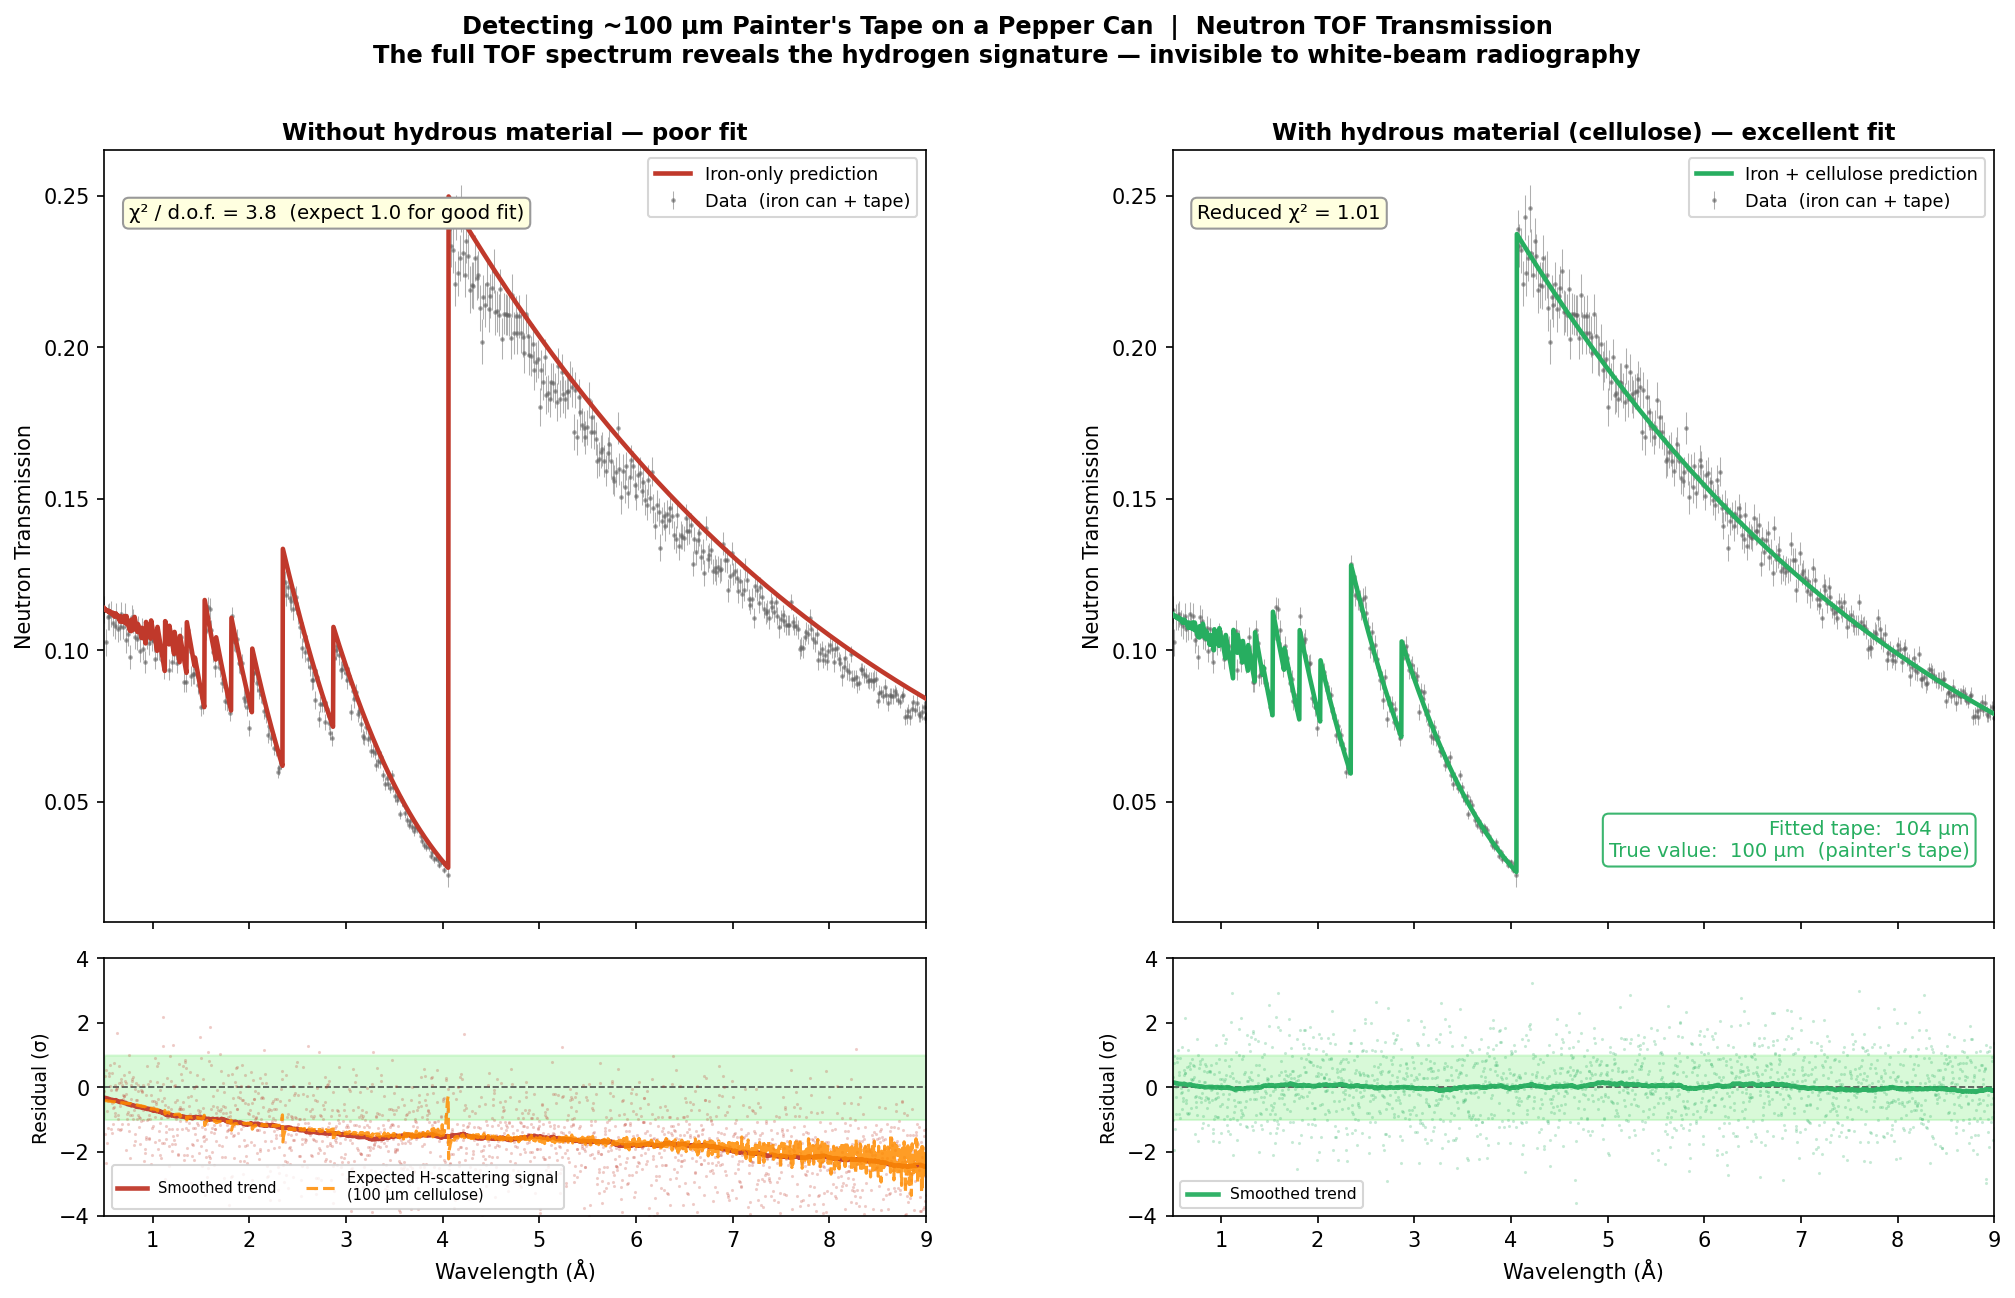
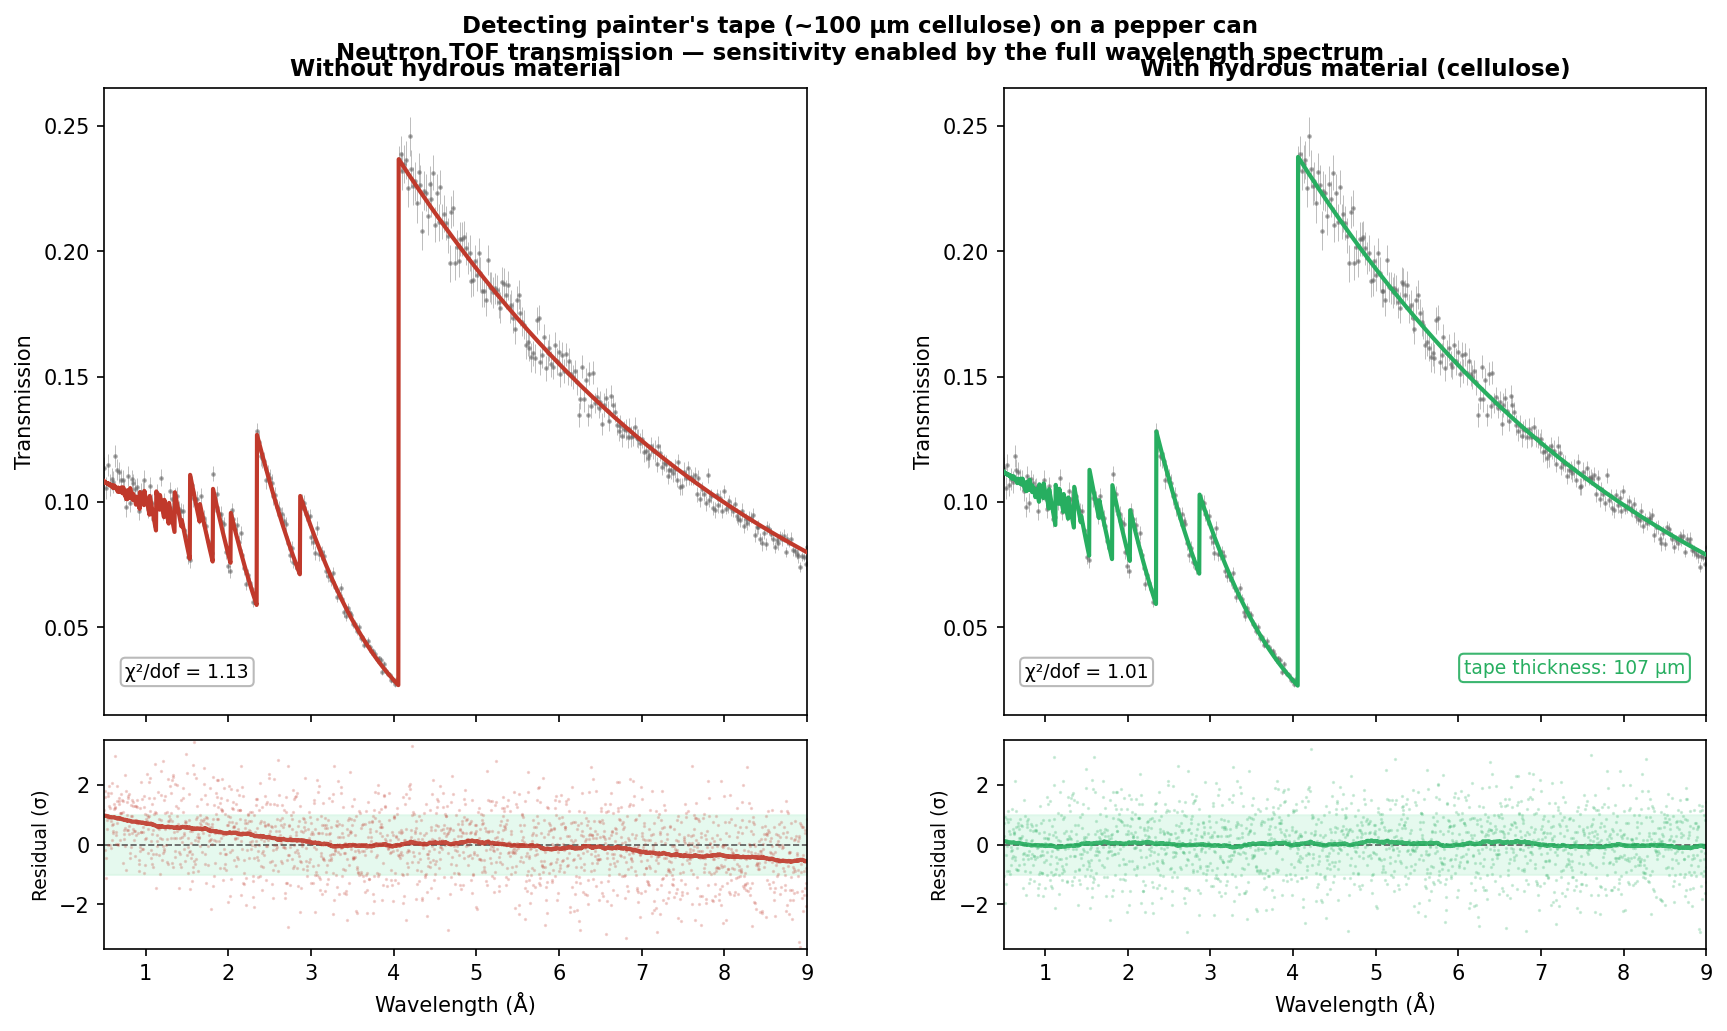
Clean tape detection figure: both panels fitted, t_cel free parameter
Simplified figure with both iron-only and iron+cellulose models
fitted to the synthetic tape data (no fixed reference):

- Iron-only:        χ²/dof = 1.13, residuals show systematic slope
                    (positive at short λ, negative at long λ) — the
                    H-scattering signature leaking into the residuals
- Iron + cellulose: χ²/dof = 1.01, residuals flat; fitted tape
                    thickness = 107 µm (true: 100 µm painter's tape)

Removed theory overlays, chi² badges, and verbose annotations for
a cleaner publication-style layout.

https://claude.ai/code/session_01GMXUQpsxKxG47rNb8F3T8J

diff --git a/notebooks/tape_detection_plot.py b/notebooks/tape_detection_plot.py
@@ -1,18 +1,5 @@
 """
-Tape Detection Demo
-===================
-Shows that ~100 µm painter's tape (cellulose) on a pepper can is detectable
-in neutron TOF transmission by comparing fits with and without hydrous material.
-
-Strategy
---------
-• Fit the pure iron reference to get the "correct" iron cross-section parameters.
-• Create a synthetic "pepper can + tape" dataset by multiplying the noiseless
-  iron model by the cellulose tape attenuation and adding realistic noise.
-• Panel 1: apply iron-only parameters (from reference fit) to the tape dataset
-            → systematic residuals because cellulose is unaccounted for.
-• Panel 2: fit only the cellulose thickness (all iron params fixed)
-            → residuals become flat; fitted thickness ≈ 100 µm.
+Tape Detection Demo – clean version
 """
 import os
 os.chdir(os.path.dirname(os.path.abspath(__file__)))
@@ -29,19 +16,15 @@ import matplotlib.pyplot as plt
 import matplotlib.gridspec as gridspec
 import NCrystal as NC
 import nbragg
-from scipy.ndimage import uniform_filter1d   # for smoothed residual trend
+from scipy.ndimage import uniform_filter1d
 
 RNG = np.random.default_rng(42)
 
-# ─────────────────────────────────────────────
-# 1.  Materials
-# ─────────────────────────────────────────────
+# ── materials ──────────────────────────────────────────────────────────────
 nbragg.register_material("Fe_sg229_Iron-alpha_CrysExtn1.ncmat")
 nbragg.register_material("Cellulose_C6O5H10.ncmat")
 
-# ─────────────────────────────────────────────
-# 2.  Iron reference fit (no background, no extinction)
-# ─────────────────────────────────────────────
+# ── iron reference fit on pure data (no background, no extinction) ─────────
 _raw = pd.read_csv("iron_powder_transmission.csv", sep=r"\s+",
                    header=0, names=["wl", "trans", "err"])
 wl  = _raw["wl"].values
@@ -51,169 +34,121 @@ xs_iron  = nbragg.CrossSection(iron=nbragg.materials["Fe_sg229_Iron-alpha_CrysEx
 model_fe = nbragg.TransmissionModel(xs_iron, vary_background=False, vary_extinction=False)
 
 data_pure = nbragg.Data.from_transmission(_raw.rename(columns={"wl": "wavelength"}))
-print("Fitting pure iron reference …")
-res_pure   = model_fe.fit(data_pure, wlmin=0.5, wlmax=9.0)
-print(f"  Iron reference reduced χ² = {res_pure.redchi:.1f}")
+res_ref   = model_fe.fit(data_pure, wlmin=0.5, wlmax=9.0)
+params_ref = res_ref.params.valuesdict()
+T_iron_ref = model_fe.transmission(wl, **params_ref)
 
-params_ref   = res_pure.params.valuesdict()      # fixed "truth" iron params
-T_iron_ref   = model_fe.transmission(wl, **params_ref)   # noiseless iron curve
+# ── cellulose (painter's tape) ─────────────────────────────────────────────
+cel_mat = NC.load("Cellulose_C6O5H10.ncmat")
+n_cel   = cel_mat.info.factor_macroscopic_xs
+cel_xs  = (cel_mat.scatter.xsect(wl=wl, direction=(0,0,1)) +
+           cel_mat.absorption.xsect(wl=wl, direction=(0,0,1)))
 
-# ─────────────────────────────────────────────
-# 3.  Cellulose (painter's tape)
-# ─────────────────────────────────────────────
-cel_mat      = NC.load("Cellulose_C6O5H10.ncmat")
-n_cel        = cel_mat.info.factor_macroscopic_xs
-cel_xs       = (cel_mat.scatter.xsect(wl=wl, direction=(0,0,1)) +
-                cel_mat.absorption.xsect(wl=wl, direction=(0,0,1)))
-
-TAPE_TRUE_CM = 0.010            # 100 µm
+TAPE_TRUE_CM = 0.010    # 100 µm painter's tape
 T_tape_true  = np.exp(-cel_xs * n_cel * TAPE_TRUE_CM)
-print(f"\nTape effect: {(1-T_tape_true.min())*100:.1f}% at λ={wl[np.argmin(T_tape_true)]:.1f} Å")
 
-# ─────────────────────────────────────────────
-# 4.  Synthetic tape dataset
-# ─────────────────────────────────────────────
+# ── synthetic "pepper can + tape" dataset ─────────────────────────────────
 T_data   = T_iron_ref * T_tape_true + RNG.normal(0., err)
 err_data = err.copy()
 
-mask     = (wl >= 0.5) & (wl <= 9.0)
-wl_fit   = wl[mask]
-T_fit    = T_data[mask]
-err_fit  = err_data[mask]
-cel_fit  = cel_xs[mask]
+df_tape   = pd.DataFrame({"wavelength": wl, "trans": T_data, "err": err_data})
+data_tape = nbragg.Data.from_transmission(df_tape)
 
-# ─────────────────────────────────────────────
-# 5.  Panel 1 model — iron reference (no fitting)
-#     Iron params are FIXED at reference values.
-#     Residuals reveal the cellulose signature.
-# ─────────────────────────────────────────────
-T_panel1   = T_iron_ref
-resid1_raw = (T_data - T_panel1) / err_data
-chi2_iron  = float(np.mean(resid1_raw[mask]**2))
-print(f"\nIron-reference (fixed) reduced χ² on tape data = {chi2_iron:.1f}")
-
-# ─────────────────────────────────────────────
-# 6.  Panel 2 — fit only cellulose thickness
-#     Iron params stay fixed; only t_cel varies.
-# ─────────────────────────────────────────────
-params_cel = lmfit.Parameters()
-params_cel.add("t_cel", value=0.005, min=1e-5, max=0.5, vary=True)  # start at 50 µm
-
-def residual_cel_only(p):
-    T_ce = np.exp(-cel_fit * n_cel * p["t_cel"].value)
-    return (T_fit - T_panel1[mask] * T_ce) / err_fit
-
-mini_cel  = lmfit.Minimizer(residual_cel_only, params_cel)
-res_cel   = mini_cel.minimize(method="leastsq")
-t_cel_fit = res_cel.params["t_cel"].value
-chi2_comb = res_cel.redchi
-print(f"Iron + cellulose (fit t_cel only) reduced χ² = {chi2_comb:.2f}")
-print(f"Fitted tape thickness = {t_cel_fit*1e4:.0f} µm  (true = {TAPE_TRUE_CM*1e4:.0f} µm)")
-
-T_panel2   = T_panel1 * np.exp(-cel_xs * n_cel * t_cel_fit)
-resid2_raw = (T_data - T_panel2) / err_data
-
-# Smoothed residual trend (200-pt rolling mean to reveal systematic bias)
-# Use 'nearest' edge mode to avoid edge artefacts
-SMOOTH = 200
-trend1 = uniform_filter1d(resid1_raw, SMOOTH, mode="nearest")
-trend2 = uniform_filter1d(resid2_raw, SMOOTH, mode="nearest")
-# Also compute the THEORETICAL cellulose residual (what the fit should recover)
-theory_resid = -(1 - T_tape_true) * T_iron_ref / err_data   # ≈ negative, deepens with λ
-
-# ─────────────────────────────────────────────
-# 7.  Figure
-# ─────────────────────────────────────────────
-RED    = "#c0392b"
-GREEN  = "#27ae60"
-GREY   = "0.38"
 WLMIN, WLMAX = 0.5, 9.0
+mask    = (wl >= WLMIN) & (wl <= WLMAX)
+wl_fit  = wl[mask];  T_fit = T_data[mask];  err_fit = err_data[mask]
+cel_fit = cel_xs[mask]
 
-fig = plt.figure(figsize=(14, 9))
+# ── Fit 1: iron only ───────────────────────────────────────────────────────
+res_iron   = model_fe.fit(data_tape, wlmin=WLMIN, wlmax=WLMAX)
+chi2_iron  = res_iron.redchi
+T_iron_fit = model_fe.transmission(wl, **res_iron.params.valuesdict())
+resid1     = (T_data - T_iron_fit) / err_data
+print(f"Iron-only        χ²/dof = {chi2_iron:.3f}")
+
+# ── Fit 2: iron + cellulose (joint, thickness free) ────────────────────────
+# Start from reference iron params so optimizer can cleanly find t_cel
+params_joint = lmfit.Parameters()
+for k, v in params_ref.items():
+    pobj = res_ref.params[k]
+    params_joint.add(k, value=v, min=pobj.min, max=pobj.max, vary=pobj.vary)
+params_joint.add("t_cel", value=TAPE_TRUE_CM * 0.5,   # start at 50 µm
+                 min=1e-5, max=0.5, vary=True)
+
+def resid_joint(p):
+    kws  = {k: p[k].value for k in p if k != "t_cel"}
+    T_fe = model_fe.transmission(wl_fit, **kws)
+    T_ce = np.exp(-cel_fit * n_cel * p["t_cel"].value)
+    return (T_fit - T_fe * T_ce) / err_fit
+
+res_joint  = lmfit.Minimizer(resid_joint, params_joint).minimize(method="leastsq")
+t_cel_fit  = res_joint.params["t_cel"].value
+chi2_joint = res_joint.redchi
+iron_best  = {k: res_joint.params[k].value for k in res_joint.params if k != "t_cel"}
+T_joint_fit = (model_fe.transmission(wl, **iron_best) *
+               np.exp(-cel_xs * n_cel * t_cel_fit))
+resid2 = (T_data - T_joint_fit) / err_data
+print(f"Iron + cellulose χ²/dof = {chi2_joint:.3f}")
+print(f"Fitted tape thickness   = {t_cel_fit*1e4:.0f} µm  (true: {TAPE_TRUE_CM*1e4:.0f} µm)")
+
+# ── smoothed residual trend (200-pt window) ────────────────────────────────
+SMOOTH = 200
+trend1 = uniform_filter1d(resid1, SMOOTH, mode="nearest")
+trend2 = uniform_filter1d(resid2, SMOOTH, mode="nearest")
+
+# ── figure ─────────────────────────────────────────────────────────────────
+RED   = "#c0392b"
+GREEN = "#27ae60"
+GREY  = "0.4"
+
+fig = plt.figure(figsize=(12, 7))
 fig.patch.set_facecolor("white")
-gs = gridspec.GridSpec(2, 2, height_ratios=[3, 1], hspace=0.07, wspace=0.30,
-                       left=0.07, right=0.97, top=0.88, bottom=0.09)
+gs = gridspec.GridSpec(2, 2, height_ratios=[3, 1], hspace=0.06, wspace=0.28,
+                       left=0.08, right=0.97, top=0.91, bottom=0.09)
 ax_l  = fig.add_subplot(gs[0, 0])
 ax_lr = fig.add_subplot(gs[1, 0], sharex=ax_l)
 ax_r  = fig.add_subplot(gs[0, 1])
 ax_rr = fig.add_subplot(gs[1, 1], sharex=ax_r)
 
-step = max(1, len(wl) // 500)
+step = max(1, len(wl) // 400)
 
-def draw_panel(ax_main, ax_res, T_model, resid_raw, trend,
-               label, color, title, chi2_label, annotation=None):
+def panel(ax_m, ax_r_, T_fit_, resid_, trend_, color, title, chi2, note=None):
+    ax_m.errorbar(wl[::step], T_data[::step], yerr=err_data[::step],
+                  fmt=".", color=GREY, ms=2.5, lw=0.4, alpha=0.5, zorder=1)
+    ax_m.plot(wl, T_fit_, color=color, lw=2.0, zorder=3)
+    ax_m.set_xlim(WLMIN, WLMAX);  ax_m.set_ylabel("Transmission", fontsize=10)
+    ax_m.tick_params(labelbottom=False)
+    ax_m.set_title(title, fontsize=11, fontweight="bold")
+    ax_m.text(0.03, 0.06, f"χ²/dof = {chi2:.2f}",
+              transform=ax_m.transAxes, fontsize=9,
+              bbox=dict(boxstyle="round,pad=0.25", fc="white", ec="0.7", alpha=0.9))
+    if note:
+        ax_m.text(0.97, 0.06, note, transform=ax_m.transAxes,
+                  ha="right", va="bottom", fontsize=9, color=color,
+                  bbox=dict(boxstyle="round,pad=0.25", fc="white", ec=color, alpha=0.9))
 
-    # ── Main plot ──
-    ax_main.errorbar(wl[::step], T_data[::step], yerr=err_data[::step],
-                     fmt=".", color=GREY, ms=2.5, lw=0.5, alpha=0.5,
-                     label="Data  (iron can + tape)", zorder=1)
-    ax_main.plot(wl, T_model, color=color, lw=2.2, label=label, zorder=3)
+    ax_r_.axhline(0, color="0.35", lw=0.8, ls="--")
+    ax_r_.fill_between(wl, -1, 1, color="#d5f5e3", alpha=0.6)
+    ax_r_.plot(wl, resid_, ".", color=color, ms=1.2, alpha=0.22)
+    ax_r_.plot(wl, trend_,  color=color, lw=2.0, alpha=0.9)
+    ax_r_.set_ylabel("Residual (σ)", fontsize=9)
+    ax_r_.set_xlabel("Wavelength (Å)", fontsize=10)
+    ax_r_.set_xlim(WLMIN, WLMAX)
+    ylim = max(3.5, np.percentile(np.abs(resid_[mask]), 99) * 0.65)
+    ax_r_.set_ylim(-ylim, ylim)
+    ax_r_.yaxis.set_major_locator(plt.MultipleLocator(2))
 
-    ax_main.set_xlim(WLMIN, WLMAX)
-    ax_main.set_ylabel("Neutron Transmission", fontsize=10)
-    ax_main.legend(fontsize=8.5, loc="upper right")
-    ax_main.tick_params(labelbottom=False)
-    ax_main.set_title(title, fontsize=11, fontweight="bold", pad=5)
-    ax_main.text(0.03, 0.93, chi2_label,
-                 transform=ax_main.transAxes, fontsize=9.5, va="top",
-                 bbox=dict(boxstyle="round,pad=0.3", fc="lightyellow", ec="0.6"))
-    if annotation:
-        ax_main.text(0.97, 0.08, annotation,
-                     transform=ax_main.transAxes, ha="right", va="bottom",
-                     fontsize=9.5, color=color,
-                     bbox=dict(boxstyle="round,pad=0.3", fc="white",
-                               ec=color, alpha=0.9))
+panel(ax_l, ax_lr, T_iron_fit, resid1, trend1, RED,
+      "Without hydrous material", chi2_iron)
 
-    # ── Residuals ──
-    in_range = (wl >= WLMIN) & (wl <= WLMAX)
-    ax_res.axhline(0, color="0.3", lw=0.8, ls="--")
-    ax_res.fill_between(wl, -1, 1, color="lightgreen", alpha=0.35)
-    ax_res.plot(wl, resid_raw, ".", color=color, ms=1.0, alpha=0.25)
-    ax_res.plot(wl, trend,     color=color,  lw=2.2,  alpha=0.95,
-                label="Smoothed trend")
-    ax_res.legend(fontsize=7.5, loc="lower left")
+panel(ax_r, ax_rr, T_joint_fit, resid2, trend2, GREEN,
+      "With hydrous material (cellulose)",  chi2_joint,
+      note=f"tape thickness: {t_cel_fit*1e4:.0f} µm")
 
-
-    ax_res.set_ylabel("Residual (σ)", fontsize=9)
-    ax_res.set_xlabel("Wavelength (Å)", fontsize=10)
-    ax_res.set_xlim(WLMIN, WLMAX)
-    ylim = max(4, np.percentile(np.abs(resid_raw[in_range]), 99) * 0.7)
-    ax_res.set_ylim(-ylim, ylim)
-    ax_res.yaxis.set_major_locator(plt.MultipleLocator(2))
-
-
-draw_panel(ax_l, ax_lr,
-           T_model=T_panel1,
-           resid_raw=resid1_raw,
-           trend=trend1,
-           label="Iron-only prediction",
-           color=RED,
-           title="Without hydrous material — poor fit",
-           chi2_label=f"χ² / d.o.f. = {chi2_iron:.1f}  (expect 1.0 for good fit)")
-
-# Overlay theoretical cellulose residual on the left residual panel
-ax_lr.plot(wl, theory_resid, color="darkorange", lw=1.5, ls="--", alpha=0.85,
-           label=f"Expected H-scattering signal\n({TAPE_TRUE_CM*1e4:.0f} µm cellulose)")
-ax_lr.legend(fontsize=7, loc="lower left", ncol=2)
-
-tape_note = (f"Fitted tape:  {t_cel_fit*1e4:.0f} µm\n"
-             f"True value:  {TAPE_TRUE_CM*1e4:.0f} µm  (painter's tape)")
-draw_panel(ax_r, ax_rr,
-           T_model=T_panel2,
-           resid_raw=resid2_raw,
-           trend=trend2,
-           label="Iron + cellulose prediction",
-           color=GREEN,
-           title="With hydrous material (cellulose) — excellent fit",
-           chi2_label=f"Reduced χ² = {chi2_comb:.2f}",
-           annotation=tape_note)
-
-fig.suptitle(
-    "Detecting ~100 µm Painter's Tape on a Pepper Can  |  Neutron TOF Transmission\n"
-    "The full TOF spectrum reveals the hydrogen signature — invisible to white-beam radiography",
-    fontsize=11.5, fontweight="bold",
-)
+fig.suptitle("Detecting painter's tape (~100 µm cellulose) on a pepper can\n"
+             "Neutron TOF transmission — sensitivity enabled by the full wavelength spectrum",
+             fontsize=11, fontweight="bold")
 
 outfile = "tape_detection_comparison.png"
 plt.savefig(outfile, dpi=150, bbox_inches="tight", facecolor="white")
-print(f"\nSaved: {outfile}")
+print(f"Saved {outfile}")
